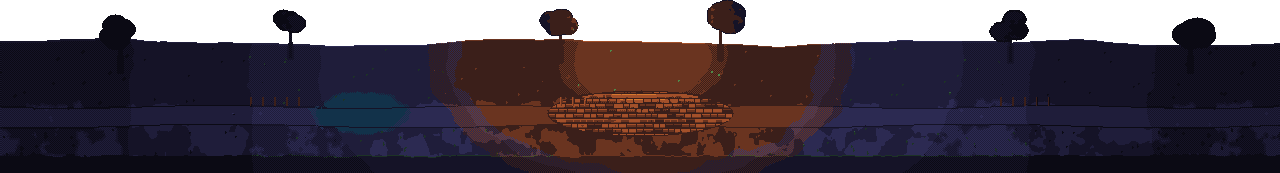
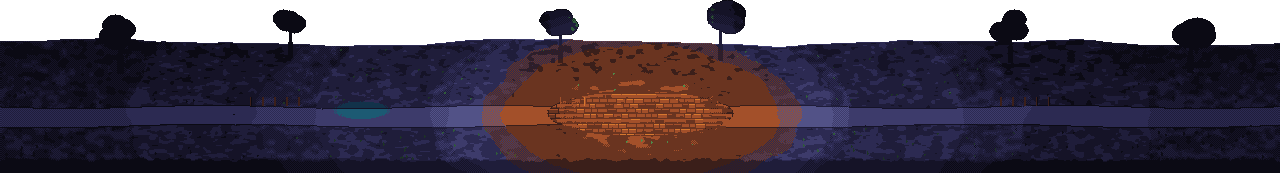
lanternrest: art pass (light pool, vault hill, mist highlight), off-screen plates hidden, capture script, RESUME/progress

diff --git a/game/assets/lanternrest/src/make_village.py b/game/assets/lanternrest/src/make_village.py
@@ -9,7 +9,6 @@ Writes into game/assets/lanternrest/:
   <place>_hi.png   its 1 px highlight outline (amber), for hover / tap
   lantern_glow.png, vault_glow.png   additive light layers
   flame_0..3.png   the lantern's flame (animated)
-  mist.png         a drifting mist band drawn over the fogged side areas
   layout.json      every layer's world position, the places' tap zones and the banner anchor
 Uses paint.py / kit.py from assets/encounter/src (read only), like the battle art.
 The world is WORLD_W x 360: wider than any screen (640 at 16:9, 780 at 19.5:9), scrolled sideways.
@@ -43,22 +42,27 @@ layout = {'world': [WORLD_W, WORLD_H], 'far_w': FAR_W, 'layers': {}, 'places': {
 # ------------------------------------------------------------------ helpers
 def lantern_light(cv, r=330.0):
     """0..1 warm light from the lantern, squashed vertically (it pools on the ground)."""
-    d = np.sqrt((cv.x - LANTERN[0]) ** 2 + ((cv.y - LANTERN[1] - 150) * 1.6) ** 2)
+    d = np.sqrt((cv.x - LANTERN[0]) ** 2 + ((cv.y - 300) * 2.0) ** 2)
     return np.clip(1 - d / r, 0, 1)
+
+
+# warm light on grass and earth keeps two tones apart (the stock WARM table folds ink3 and ink4 together)
+GROUND_WARM = _map([('ink3', 'amber1'), ('ink4', 'amber2'), ('ink5', 'amber2'), ('ink6', 'amber3'), ('ink7', 'amber3'),
+                    ('ink8', 'amber4'), ('life1', 'amber1'), ('life2', 'amber2')])
 
 
 def edge_dark(cv):
     """Darkening toward the fogged edges of the village (whole ramp steps)."""
-    dx = np.abs(cv.x - LANTERN[0])
+    dx = np.sqrt((cv.x - LANTERN[0]) ** 2 + ((cv.y - 300) * 3.0) ** 2) + 30 * (fbm(cv.w, cv.h, 24, 2, 17) - 0.5)
     return np.clip((dx - 380) / 140.0, 0, 1.0)
 
 
-def light_world(cv, mask, warm_amt=1.0, base=-0.5):
+def light_world(cv, mask, warm_amt=1.0, base=-0.5, warm_pow=1.0, table=None):
     """The shared lighting pass for anything painted in world space: lift near the lantern, sink
     toward the edges, tint warm close to the light."""
     lf = lantern_light(cv)
     light_pass(cv, noisy(lf * 2.6 + base, 11, 0.12, cell=30) - edge_dark(cv), mask)
-    tint_pass(cv, noisy(lf * 1.25 * warm_amt, 12, 0.12, cell=30), WARM, mask)
+    tint_pass(cv, noisy(lf ** warm_pow * 1.25 * warm_amt, 12, 0.12, cell=30), WARM if table is None else table, mask)
 
 
 def crop_save(cv, name, mask=None):
@@ -165,7 +169,9 @@ def ground():
     n = fbm(WORLD_W, 1, 60, 3, 21)[0]
     top = SKYLINE - 6 * n - 3 * np.sin(xs / 70.0)
     land = Y >= top[None, :]
-    cv.shade(land, 0.35 + 0.25 * smoothstep(SKYLINE, 300, Y) + 0.1 * (fbm(WORLD_W, WORLD_H, 14, 3, 3) - 0.5),
+    # grass in clumps (two tones), darker toward the back
+    clump = fbm(WORLD_W, WORLD_H * 2, 9, 2, 3)[::2][:WORLD_H]
+    cv.shade(land, 0.3 + 0.25 * smoothstep(SKYLINE, 300, Y) + 1.0 * (clump - 0.5),
              ramp('ink2', 'ink3', 'ink3', 'ink4', 'ink4'), 0, 1)
     cv.put(land & ~shift(land, 0, 1), IDX['ink4'])
     # meadow tufts in rows (texture, read as grass, not noise)
@@ -184,7 +190,7 @@ def ground():
     road_top = PATH[0] + 1.5 * np.sin(xs / 45.0)
     road_bot = PATH[1] + 2.0 * np.sin(xs / 60.0 + 1)
     road = (Y >= road_top[None, :]) & (Y <= road_bot[None, :])
-    cv.shade(road, 0.45 + 0.2 * (fbm(WORLD_W, WORLD_H, 8, 2, 41) - 0.5), ramp('ink3', 'ink4', 'ink4', 'ink5'), 0, 1)
+    cv.shade(road, 0.45 + 0.2 * (fbm(WORLD_W, WORLD_H, 8, 2, 41) - 0.5), ramp('ink4', 'ink5', 'ink5', 'ink6'), 0, 1)
     cv.put(road & ~shift(road, 0, 1), IDX['ink2'])
     cv.put(road & ~shift(road, 0, -1), IDX['ink2'])
     for i in range(80):
@@ -219,14 +225,15 @@ def ground():
         cv.put(post, IDX['amber1'])
         cv.put(post & (X == fx), IDX['amber2'])
     # the front verge: a darker band of taller grass at the bottom edge frames the view
-    front = (Y > 340 + 4 * fbm(WORLD_W, WORLD_H, 12, 2, 77)) & land
+    edge_n = fbm(WORLD_W, 1, 6, 2, 77)[0]
+    front = (Y > 343 + 5 * edge_n[None, :]) & land
     cv.put(front, IDX['ink2'])
-    cv.put(front & ~shift(front, 0, 1), IDX['life1'])
+    cv.put(front & ~shift(front, 0, 1), IDX['ink3'])
 
-    light_world(cv, cv.idx >= 0)
+    light_world(cv, cv.idx >= 0, warm_amt=1.3, warm_pow=2.0, table=GROUND_WARM)
     # the vault's cold light spills onto the road in front of its door
-    cold = np.clip(1 - np.sqrt((X - VAULT_X) ** 2 + ((Y - 300) * 2.2) ** 2) / 70.0, 0, 1)
-    tint_pass(cv, noisy(cold * 1.4, 13, 0.3), COOL, cv.idx >= 0)
+    cold = np.clip(1 - np.sqrt((X - VAULT_X) ** 2 + ((Y - 297) * 3.0) ** 2) / 46.0, 0, 1)
+    tint_pass(cv, noisy(cold * 1.2, 13, 0.15), COOL, cv.idx >= 0)
     cv.clean(passes=1)
     crop_save(cv, 'ground')
     return cv
@@ -331,7 +338,7 @@ def vault():
     xs = np.arange(WORLD_W)
     # the hill the stair is cut into: faceted rock, a grassy crown
     n = fbm(WORLD_W, 1, 26, 3, 61)[0]
-    ht = 168 + 40 * ((xs - vx) / 104.0) ** 2 + 8 * n
+    ht = 170 + 118 * np.abs((xs - vx) / 104.0) ** 2.2 + 8 * n
     hill = (Y >= ht[None, :]) & (np.abs(X - vx) < 104) & (Y < BACK + 2)
     hill &= ~((Y > 270) & (np.abs(X - vx) > 92 - (Y - 270) * 0.8))
     rock(cv, hill, ('ink1', 'ink2', 'ink3', 'ink4', 'ink5'), (LANTERN[0] - 100, 120), seed=62, scale=16)
@@ -587,20 +594,12 @@ def fog(pid, x0, x1, inner_left):
     cv.put(area & edge_of(area) & (dens < 0.2), IDX['ink4'])
     cv.clean(mask=area, passes=1)
     m = crop_save(cv, pid)
-    hi_save(m & (dens < 0.35) & (dens > 0.12) | (m & edge_of(m) & (Y > 40) & (Y < WORLD_H - 2) & ((X > x0 + 1) & (X < x1 - 1))), pid, color='ink8')
+    # the mist's highlight: the whole bank one ramp step lighter (an outline would trace every wisp)
+    hi = Canvas(WORLD_W, WORLD_H)
+    hi.idx = np.where(m, LIGHTER[np.maximum(cv.idx, 0)], -1)
+    crop_save(hi, pid + '_hi')
     zx0, zx1 = (x0 + 24, x1) if inner_left else (x0, x1 - 24)
     place(pid, [zx0, 150, zx1 - zx0, 180], plate_y=170)
-
-
-def mist_band():
-    """A long low band of mist that drifts over the fog banks (drawn with partial alpha)."""
-    w, h = 260, 60
-    cv = Canvas(w, h)
-    n = fbm(w, h, 20, 3, 91)
-    d = np.clip(1 - np.abs(cv.y - h / 2) / (h / 2), 0, 1) * (0.6 + 0.8 * (n - 0.5))
-    cv.shade(d > 0.25, d, ramp('fade1', 'fade2', 'fade2', 'fade3'), 0.25, 1.0)
-    cv.clean(passes=1)
-    cv.save(os.path.join(OUT, 'mist.png'))
 
 
 def main():
@@ -614,7 +613,6 @@ def main():
     grounds()
     fog('fog_west', FOG_W[0], FOG_W[1], False)
     fog('fog_east', FOG_E[0], FOG_E[1], True)
-    mist_band()
     with open(os.path.join(OUT, 'layout.json'), 'w') as f:
         json.dump(layout, f, indent=1, sort_keys=True)
     print('lanternrest village done')

diff --git a/docs/RESUME.md b/docs/RESUME.md
@@ -92,3 +92,4 @@ Open design needs for the user: the advanced/Legendary class roster (only 8 of 3
 - 2026-10-05 hires-ui round-7 build (local): setup note line reserved (hint / why Confirm is disabled) and row-anchored tooltips, proved by tests/probe_setup_panel.gd (new probe phase: every card state at 1080 and 2340x1080, no text on text); banners are HUD with a 4 px margin and Crystal fights reserve the tallest lore banner (checked every frame); draft and hero detail in the SoS rhythm (two aligned label/value stat columns, one ability row, one serif voice, one highlight); intro chips always labelled; Awakens in one spot; run encounter matches the encounter screen. Captures: captures/hires-ui/r7/, captures/flow/r7/. Record: 'Round-7 build' in docs/tasks/hires-ui-round6.md. Awaiting critic round 7.
 - 2026-10-05 hires-ui critic round 7 (local): **PASS**. Ours 5/7 incl. Sea of Stars party (draft); open review marginal PASS. Task done; polish backlog in docs/tasks/hires-ui-round7.md.
 - 2026-10-05: class approval page for the user: https://claude.ai/artifact/FGC6ic2FJ9GJN1E2WZM4SQ (84 options from docs/design/advanced-class-options.md + 10 rulings; picks stored in its db collections 'verdicts' and 'rulings', read with ArtifactData). User's playtest pool backed up to user://backup-2026-10-05/ and reset.
+- 2026-10-05 lanternrest-village (local builder): Lanternrest is a place, not a menu. scenes/lanternrest/: a 1280x360 world-layer village (art by assets/lanternrest/src/make_village.py on the encounter painter kit, master palette) scrolled by drag/swipe with fling, wheel, arrow keys, the PC screen edges and edge arrows, clamped, 19.5:9 ok; places are VillagePlace world objects with tap zones (layout.json) and hover/tap outlines + name plates on the UI layer: the Lantern (crest on its banner; menu = progress, Banner Hall name/crest, Glimmers into Shards), the Vault entrance (Descend / Continue, new descent over a save asks twice), five empty plots (notes), mist on both sides (notes), the Training Grounds barracks yard (dummies, target, rack) built on plot_e1 after the first run (placeholder rule, NEW tag until looked at). Title offers New game / Continue, both into Lanternrest; results return there; first visit picks a team name + crest from 6 names / 3 crests (IdentityPanel). Tests: tests/test_lanternrest.gd (8) + tests/probe_lanternrest.gd (plates/panels at 1080 and phone). Captures: tools/capture_lanternrest.sh -> captures/lanternrest/. Questions for the user: the Training Grounds unlock rule; whether the Lantern menu keeps free-text renaming; when the mist thins; plot hints. Not judged by a critic yet.
